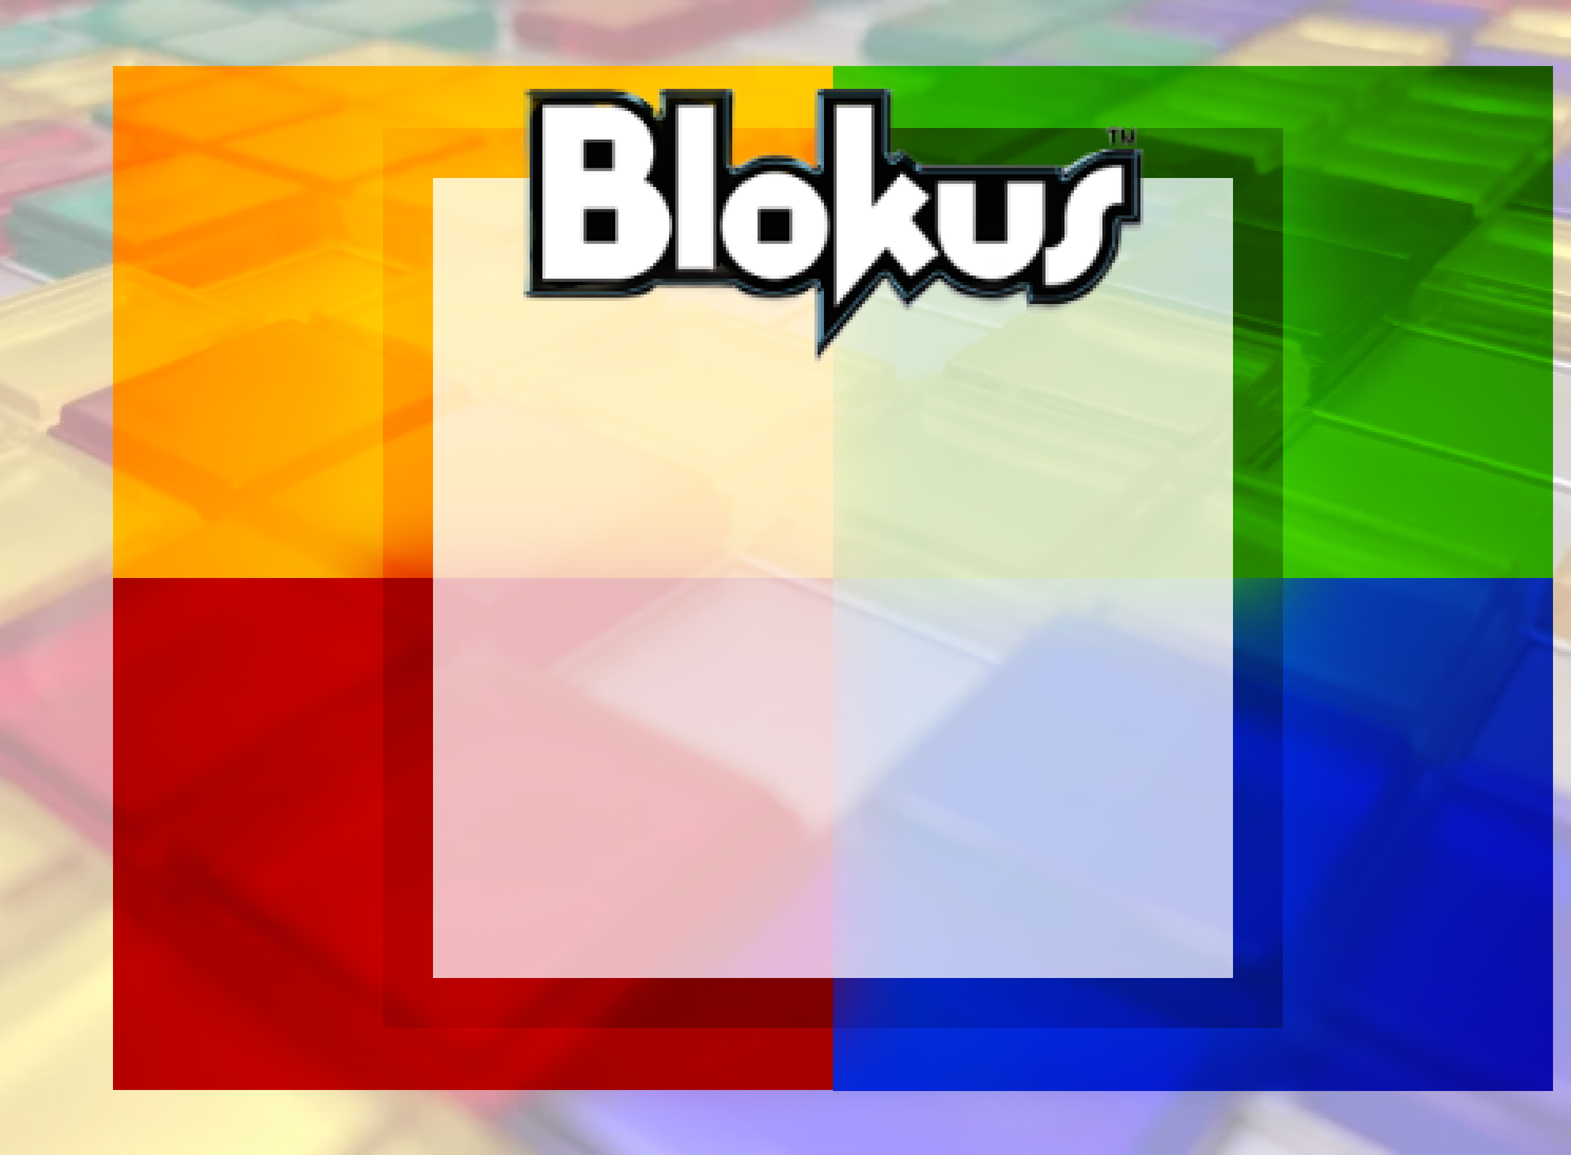
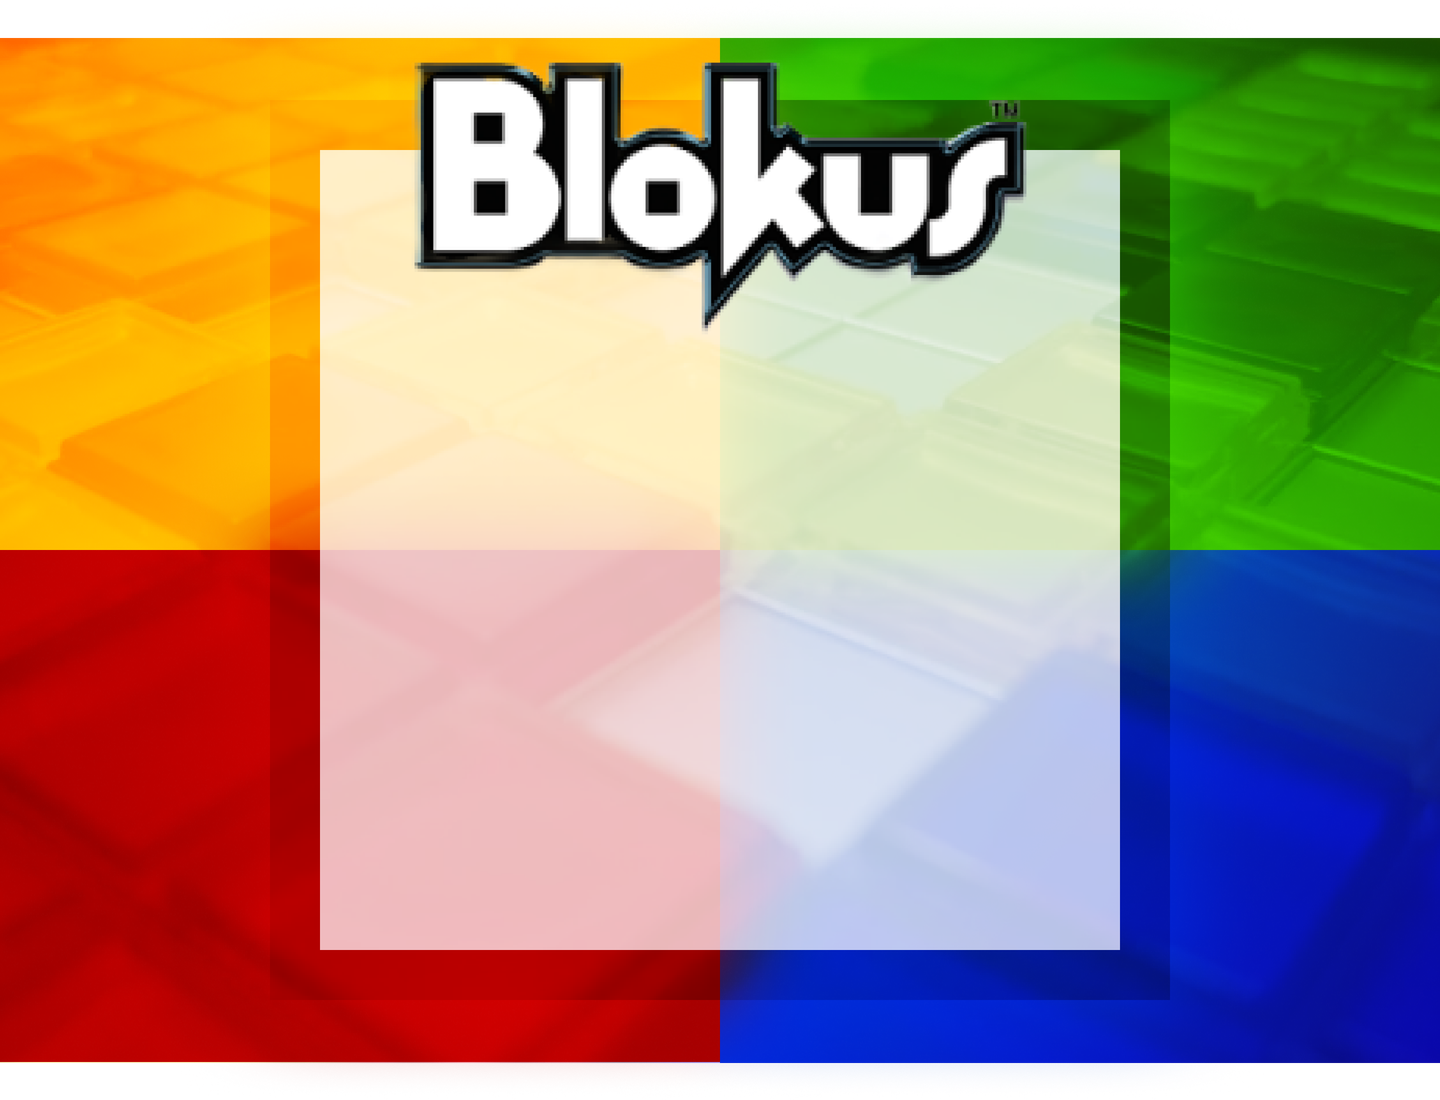
Bouton

diff --git a/Accueil/test.py b/Accueil/test.py
@@ -1,0 +1,97 @@
+import tkinter as tk
+
+
+class RoundedButton(tk.Canvas):
+
+    def __init__(self, master=None, text:str="", hauteur=20, largueur=20, fontsize=20, radius=25, btnforeground="#000000", btnbackground="#ffffff", clicked=None, *args, **kwargs):
+        super(RoundedButton, self).__init__(master, *args, **kwargs)
+        self.config(bg=self.master["bg"])
+        self.btnbackground = btnbackground
+        self.clicked = clicked
+        self.largueur = largueur
+        self.radius = radius
+        self.hauteur = hauteur   
+        
+        self.rect = self.round_rectangle(0, 0, 0, 0, tags="button", radius=radius, fill=btnbackground)
+        self.text = self.create_text(0, 0, text=text, tags="button", fill=btnforeground, font=("Times", 30), justify="center")
+
+        self.tag_bind("button", "<ButtonPress>", self.border)
+        self.tag_bind("button", "<ButtonRelease>", self.border)
+        self.bind("<Configure>", self.resize)
+        
+        text_rect = self.bbox(self.text)
+        self["width"] = self.largueur
+        
+        self["height"] = self.hauteur
+          
+    def round_rectangle(self, x1, y1, x2, y2, radius=25, update=False, **kwargs): # if update is False a new rounded rectangle's id will be returned else updates existing rounded rect.
+        # source: https://stackoverflow.com/a/44100075/15993687
+        points = [x1+radius, y1,
+                x1+radius, y1,
+                x2-radius, y1,
+                x2-radius, y1,
+                x2, y1,
+                x2, y1+radius,
+                x2, y1+radius,
+                x2, y2-radius,
+                x2, y2-radius,
+                x2, y2,
+                x2-radius, y2,
+                x2-radius, y2,
+                x1+radius, y2,
+                x1+radius, y2,
+                x1, y2,
+                x1, y2-radius,
+                x1, y2-radius,
+                x1, y1+radius,
+                x1, y1+radius,
+                x1, y1]
+
+        if not update:
+            return self.create_polygon(points, **kwargs, smooth=True)
+        
+        else:
+            self.coords(self.rect, points)
+
+    def resize(self, event):
+        text_bbox = self.bbox(self.text)
+
+        if self.radius > event.width or self.radius > event.height:
+            radius = min((event.width, event.height))
+
+        else:
+            radius = self.radius
+
+        width, height = event.width, event.height
+
+        if event.width < text_bbox[2]-text_bbox[0]:
+            width = text_bbox[2]-text_bbox[0] + 30
+        
+        if event.height < text_bbox[3]-text_bbox[1]:  
+            height = text_bbox[3]-text_bbox[1] + 30
+        
+        self.round_rectangle(5, 5, width-5, height-5, radius, update=True)
+
+        bbox = self.bbox(self.rect)
+
+        x = ((bbox[2]-bbox[0])/2) - ((text_bbox[2]-text_bbox[0])/2)
+        y = ((bbox[3]-bbox[1])/2) - ((text_bbox[3]-text_bbox[1])/2)
+
+        self.moveto(self.text, x, y)
+
+    def border(self, event):
+        if event.type == "4":
+            self.itemconfig(self.rect, fill="#d2d6d3")
+            if self.clicked is not None:
+                self.clicked()
+
+        else:
+            self.itemconfig(self.rect, fill=self.btnbackground)
+
+def func():
+    print("Bouton cliqué")
+
+# root = tk.Tk()
+# btn = RoundedButton(text="", radius=100, btnbackground="#0078ff", btnforeground="#ffffff", clicked=func)
+# btn.pack(expand=True, fill="both")
+# root.mainloop()

diff --git a/Accueil/gui.py b/Accueil/gui.py
@@ -1,17 +1,9 @@
-
-# This file was generated by the Tkinter Designer by Parth Jadhav
-# https://github.com/ParthJadhav/Tkinter-Designer
-
-
 from pathlib import Path
-
-# from tkinter import *
-# Explicit imports to satisfy Flake8
 from tkinter import Tk, Canvas, Entry, Text, Button, PhotoImage
 
 
 OUTPUT_PATH = Path(__file__).parent
-ASSETS_PATH = OUTPUT_PATH / Path(r"/Users/gauthiercorion/Desktop/blokusoffgame/blokus-amazing/build/assets/frame0")
+ASSETS_PATH = OUTPUT_PATH / Path(r"assets/frame0")
 
 
 def relative_to_assets(path: str) -> Path:
@@ -38,8 +30,8 @@ canvas.place(x = 0, y = 0)
 image_image_1 = PhotoImage(
     file=relative_to_assets("image_1.png"))
 image_1 = canvas.create_image(
-    898.0,
-    643.0,
+    720.0,
+    512.0,
     image=image_image_1
 )
 
@@ -122,5 +114,5 @@ button_5.place(
     width=80.0,
     height=80.0
 )
-window.resizable(False, False)
+
 window.mainloop()
